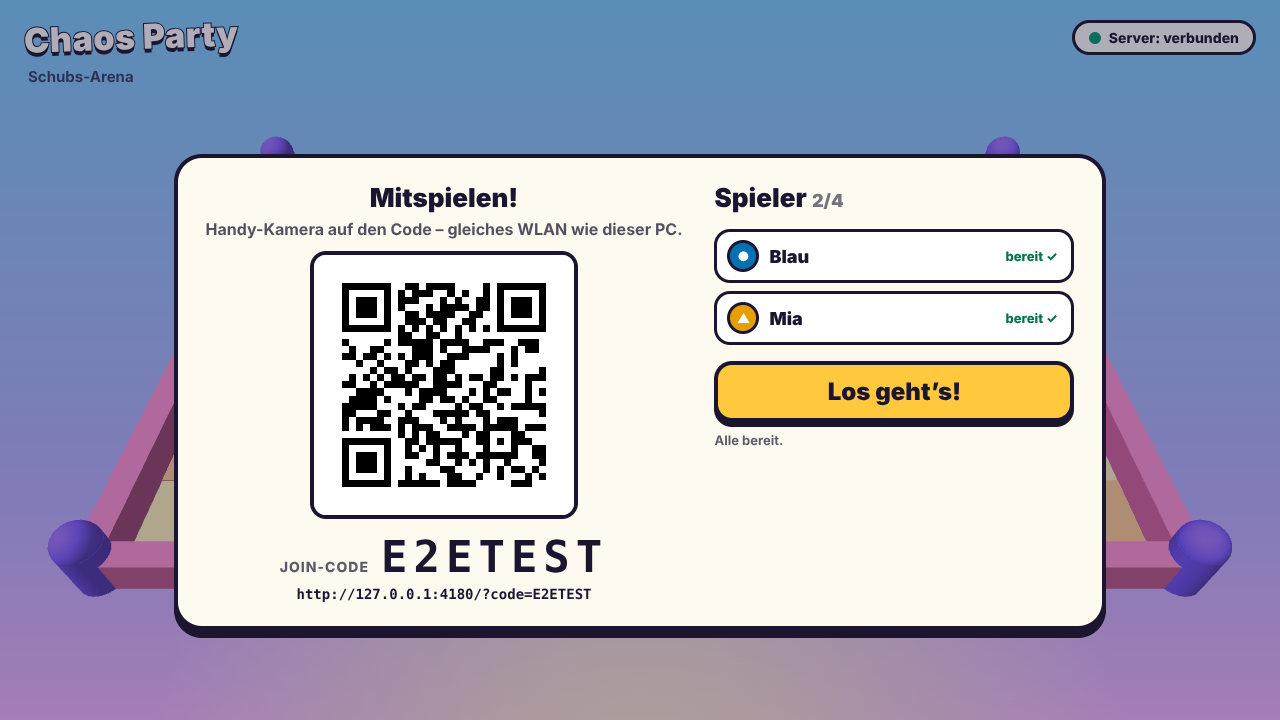
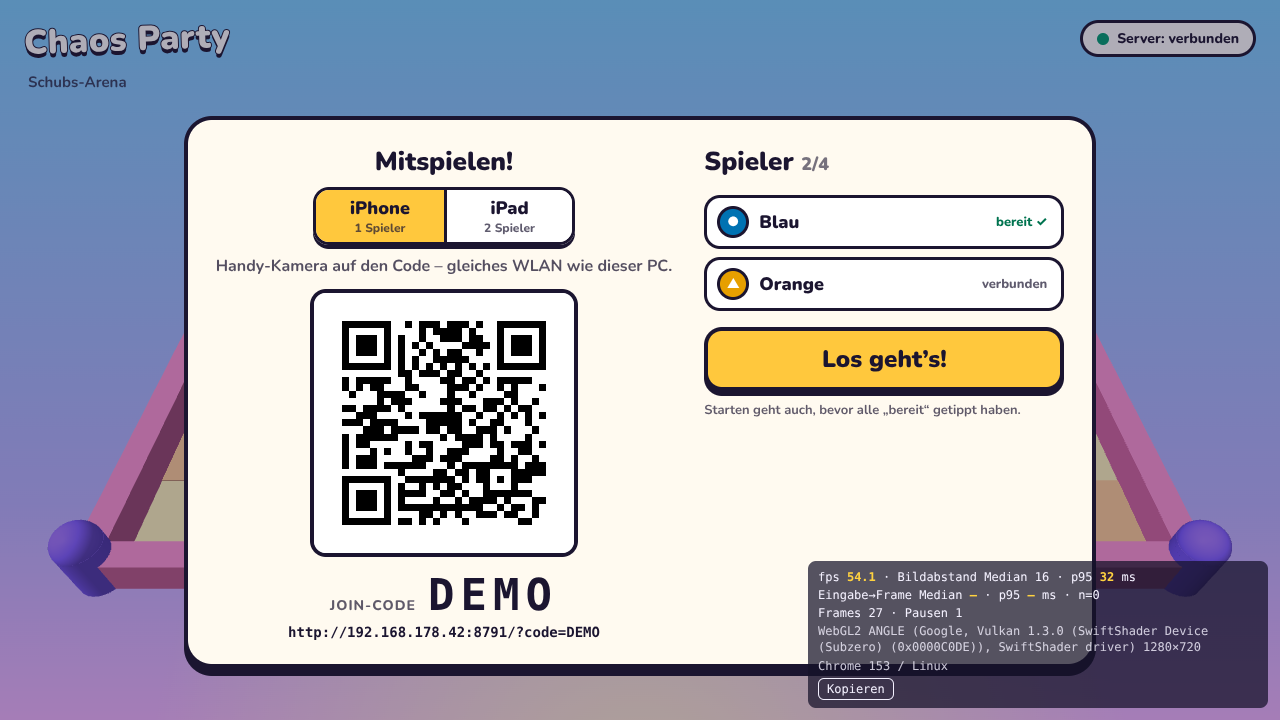
M1-Abnahmebericht, Fortschritt, Nachweise; Checkliste mit Messanzeige
- docs/acceptance/M1.md nach ROADMAP-Vorlage (Gerätechecks: nicht durchgeführt)
- docs/progress.md: Stand M1, validierte Befehle
- Gerätecheckliste P3/P9 und Demo-Anleitung mit ?debug=1
- Nachweis-Screenshots: Lobby mit iPhone/iPad-Umschalter, 4 Spieler, Messanzeige

CHAOS-15

Claude-Session: https://claude.ai/code/session_01W3mAqB3xeT3UPfR7WEi16r

Changed region(s): [[0.125, 0.1528, 1.0, 1.0], [0.0, 0.0306, 0.1875, 0.1222], [0.8125, 0.0306, 0.9688, 0.0917]]

diff --git a/docs/acceptance/M1.md b/docs/acceptance/M1.md
@@ -1,0 +1,123 @@
+# Abnahmebericht M1 – Technischer Durchstich
+
+**Stand:** 2026-11-14 · **Epic:** CHAOS-1 · **Gate:** CHAOS-16 (Entscheidung nur durch Ruben) · **PR:** [#4](https://github.com/rubenvitt/Chaos-Party/pull/4)
+
+> **Kurz:** Alle Arbeitsaufgaben von M1 sind umgesetzt, alle automatischen Gates sind lokal und in CI grün. **Kein einziger Test auf echten iPhones, einem echten iPad oder Rubens PC wurde durchgeführt.** Das ist der offene Teil der Abnahme: [Demo-Anleitung](../m1-demo.md) folgen und die [Gerätecheckliste](../device-test-checklist.md) ausfüllen.
+
+```text
+Milestone:                 M1 – Technical throughline (CHAOS-1)
+Build / commit:            Branch claude/chaos-6-qp5da3, PR #4 (Stand dieses Berichts: siehe letzter Commit im PR);
+                           Basis main f64e8d8 (CHAOS-6, PR #3)
+Automated gates (pass/fail): PASS – siehe Abschnitt „Automatische Gates“
+Real-device checks:        NOT PERFORMED – Checkliste offen (docs/device-test-checklist.md)
+What can be played now:    siehe Abschnitt „Was jetzt spielbar ist“
+Experiments and decisions: ADR-001 … ADR-010; keine Gameplay-Experimente in M1
+Known defects / limitations: siehe Abschnitt „Bekannte Fehler und Grenzen“
+Questions for product owner: siehe Abschnitt „Fragen an Ruben“
+Decision:                  (offen – Entscheidung durch Ruben: APPROVED / CHANGES REQUESTED / BLOCKED)
+```
+
+## Was jetzt spielbar ist
+
+- **PC:** `pnpm build && pnpm start`, dann `http://localhost:8787/host/`. Bunte „Schubs-Arena“ (Babylon.js + Havok-Physik) mit einer Figur pro Spieler. Die Lobby zeigt QR-Code, Join-Code, LAN-Link, einen Umschalter iPhone/iPad und die Spielerliste; „Los geht’s!“ startet.
+- **iPhone (je 1 Spieler):** QR scannen → Controller in Spielerfarbe mit Symbol → „Bereit!“ → virtueller Joystick + Knöpfe A/B. Joystick bewegt die eigene Figur, A/B schubsen. Hoch- und Querformat.
+- **Geteiltes iPad (2 Spieler, Weg zu 4):** QR im iPad-Modus oder `&seats=2` → zwei Zonen in zwei Spielerfarben, je Joystick + A/B; jede Berührung gehört der Zone, in der sie beginnt. `seats=3/4` zeigt ein 2×2-Raster.
+- **Gemischt:** iPhones und iPad gleichzeitig (bis 4 Spieler).
+- **Verbindung:** Abbruch → Controller verbindet sich automatisch neu in denselben Slot; Host zeigt getrennte Spieler deutlich (grau, „⚠ getrennt“, Figur halbtransparent mit „!“).
+- **Messwerte:** `?debug=1` (Host) bzw. `&debug=1` (Controller) zeigt fps, Frame-Zeit, Eingabe→Frame und Rundlaufzeit Controller↔Server.
+- **Nicht in M1:** Brett, Runden, Würfel, Münzen, Trophäen, Minispiele, Spielende (M2/M3).
+
+Nachweise (Chromium-Emulation, Software-Rendering, nicht echte Geräte):
+
+| Bild | Inhalt |
+|---|---|
+| [`m1-host-lobby.png`](../screenshots/m1-host-lobby.png) | Lobby mit QR-Code, Join-Code, iPhone/iPad-Umschalter, 2 Spieler (mit Messanzeige) |
+| [`m1-host-spiel-4-spieler-debug.png`](../screenshots/m1-host-spiel-4-spieler-debug.png) | Spiel mit 4 Spielern (2 iPhones + iPad mit 2 Zonen) gegen den echten Server, Messanzeige |
+| [`m1-host-szene.png`](../screenshots/m1-host-szene.png) | Startszene der Arena |
+| [`m1-controller-lobby.png`](../screenshots/m1-controller-lobby.png), [`m1-controller-play-landscape.png`](../screenshots/m1-controller-play-landscape.png), [`m1-controller-debug.png`](../screenshots/m1-controller-debug.png) | iPhone-Controller: Lobby, Spiel quer, Messanzeige |
+| [`m1-ipad-2-zonen.png`](../screenshots/m1-ipad-2-zonen.png), [`m1-ipad-2-zonen-hoch.png`](../screenshots/m1-ipad-2-zonen-hoch.png), [`m1-ipad-4-zonen.png`](../screenshots/m1-ipad-4-zonen.png) | iPad-Zonen quer, hoch, vier Zonen |
+
+Reproduzierbarkeit: Szene mit `?seed=` (Standard 2026) und `?test=1` (feste Zeitschritte); E2E-Server mit festem Join-Code `E2ETEST`.
+
+## Lieferumfang laut ROADMAP
+
+| Lieferumfang M1 | Umgesetzt in | Automatisch belegt | Offen am Gerät |
+|---|---|---|---|
+| Minimaler pnpm-TypeScript-Workspace (Host, Controller, Server, Protokoll) | CHAOS-6, CHAOS-7 | `pnpm check` lokal + CI | – |
+| Babylon.js-Szene mit steuerbarem Objekt und Havok | CHAOS-8 | `host-szene.spec.ts`: WASM lädt mit `application/wasm`, Bewegung, Impuls, Screenshot | Bildrate auf Rubens PC (P9) |
+| QR-Join über LAN, Spieler-Identität/Slots | CHAOS-9, CHAOS-11 | Adresswahl-Unit-Tests, `host-lobby`, `m1-durchstich` (Link aus der Lobby → Slot/Farbe) | Kamera-Scan, WLAN, Firewall (J1–J6) |
+| Zwei iPhones gleichzeitig, getrennte Figuren | CHAOS-10 | `m1-durchstich` (gleichzeitige Joysticks auf zwei Seiten) | echte Gleichzeitigkeit, Latenz (P1–P3) |
+| Geteiltes iPad mit ≥ 2 unabhängigen Touch-Zonen, Weg zu 4 | CHAOS-13 | Zonen-Unit-Tests, `ipad-zonen`, `m1-durchstich` (zwei Finger gegen echten Server) | iPadOS-Multitouch, Systemgesten (I1–I9) |
+| Reconnect und Trennungs-Feedback; kontextabhängiges Layout | CHAOS-12, CHAOS-10 | `reconnect-slot`, `m1-durchstich` (offline → gleicher Slot), `controller-ui` | Sperrbildschirm, App-Wechsel, WLAN-Wechsel (R1–R8) |
+| Playwright-Smoke-Tests, Protokolltests, Gerätecheckliste | CHAOS-14, CHAOS-7, CHAOS-15 | 54 E2E, 505 Unit/Integration | Checkliste ausfüllen |
+| Messanzeige als M1-Baseline (ARCHITECTURE „Testing strategy“ 4) | CHAOS-45 | `debug-anzeige.spec.ts` | Werte am Gerät (P3, P9) |
+
+## Automatische Gates
+
+Geprüft am 2026-11-14 auf dem Stand von PR #4 (lokal Node 22.23 / pnpm 10.28; CI Node 24, `ubuntu-latest`).
+
+| Gate | Befehl | Ergebnis |
+|---|---|---|
+| Install | `pnpm install --frozen-lockfile` | PASS |
+| TypeScript strict | `pnpm typecheck` | PASS |
+| Lint (typbasiert, 0 Warnungen) | `pnpm lint` | PASS |
+| Format | `pnpm format:check` | PASS |
+| Unit + Integration (Vitest) | `pnpm test` | PASS – 505 Tests (Protokoll, Session-Server mit echten `ws`-Clients, Adresswahl, Zonen-Logik, Reconnect-Backoff, Joystick, Messwerte, RNG …) |
+| Production-Build | `pnpm build` | PASS |
+| Lizenzen | `pnpm check:licenses` | PASS – 10 Laufzeit-Pakete (MIT, Apache-2.0, OFL-1.1) |
+| E2E (Playwright, Chromium, `--trace off`) | `pnpm test:e2e` | PASS – 54 Tests in 7 Specs, 5 Projekte (Desktop, iPhone hoch/quer, iPad quer/hoch); Subagenten je 2–3× hintereinander stabil, Koordinator nach jeder Integration erneut |
+| CI | GitHub Actions in PR #4 | PASS (alle Läufe nach Behebung des Schrift-Problems, s. u.) |
+| Geheimnisse | GitGuardian | PASS |
+
+Was die Tests **nicht** beweisen: [`docs/testing.md`](../testing.md), Abschnitt „Was die Automatik nicht beweist“.
+
+## Echte Geräte
+
+**Nicht durchgeführt.** Claude hat keinen Zugriff auf iPhones, iPad, Rubens PC oder sein WLAN. Alle Hardware-Annahmen (A1–A7, B1, B2, B4, B6, B7, C2, E4, E5) bleiben bis zu Rubens Test offen bzw. „teilweise“ (`docs/assumptions.md`). Vorgehen: [`m1-demo.md`](../m1-demo.md) → [`device-test-checklist.md`](../device-test-checklist.md).
+
+## Entscheidungen und Experimente
+
+| ADR | Thema | Aufgabe |
+|---|---|---|
+| [ADR-001](../decisions/ADR-001-stack.md) | Stack: Babylon.js, Havok, React, WebSockets, pnpm, Vitest, Playwright | CHAOS-5 |
+| [ADR-002](../decisions/ADR-002-workspace-tooling.md) | Workspace, TypeScript 6 strict, ESLint/Prettier, Lieferketten-Schutz | CHAOS-6 |
+| [ADR-003](../decisions/ADR-003-protokoll.md) | Protokoll: zod, flacher strikter Umschlag, eine Verbindung ↔ 1–4 Slots, seq pro Verbindung | CHAOS-7 |
+| [ADR-004](../decisions/ADR-004-host-szene.md) | Host-Szene: Havok-WASM-Laden, Eingabe-Naht, Testmodus | CHAOS-8 |
+| [ADR-005](../decisions/ADR-005-session-server.md) | Session-Server: Join-Code, Tokens, Slots, Rate-Limit | CHAOS-9 |
+| [ADR-006](../decisions/ADR-006-controller-ui.md) | Controller: Client/Reducer/UI, Joystick per Pointer Events, iOS-Härtung | CHAOS-10 |
+| [ADR-007](../decisions/ADR-007-lan-join.md) | LAN-Join: Adressrangfolge, ein Prozess für Host + Controller | CHAOS-11 |
+| [ADR-008](../decisions/ADR-008-ipad-zonen.md) | iPad-Zonen: Touch Events, Besitzregeln, Layouts | CHAOS-13 |
+| [ADR-009](../decisions/ADR-009-reconnect.md) | Reconnect: Timeouts, Token/Slot-Regeln, Backoff | CHAOS-12 |
+| [ADR-010](../decisions/ADR-010-messanzeige.md) | Messanzeige für Latenz und Bildrate | CHAOS-45 |
+
+Weitere Entscheidung bei der Integration (Koordinator): Schrift **Nunito** (OFL-1.1) wird mit Host und Controller ausgeliefert. Grund: Der Lobby-Screenshot schlug in CI fehl, weil Linux-Rechner unterschiedliche Systemschriften einsetzten; zugleich sieht das Spiel damit auf jedem PC gleich aus. Das berührt die Optik – siehe Frage 4.
+
+**Gameplay-Experimente:** keine in M1 (technischer Durchstich); `docs/experiments.md` ist unverändert.
+
+## Bekannte Fehler und Grenzen
+
+Keine kritischen Fehler bekannt. Grenzen und kleinere Mängel:
+
+1. **Automatik ≠ Gerät:** Alle Browser-Tests laufen in Chromium mit iPhone-/iPad-Emulation und synthetischem Multitouch (CDP), nicht in WebKit/iOS-Safari.
+2. **Spielphase:** Wer sich während des Spiels trennt, behält seinen Platz bis zum Server-Neustart; kein Beitritt während des Spiels; kein Spielende (M1-Umfang).
+3. **Erkennung „getrennt“:** Ein Controller, der ohne sauberes Schließen verschwindet, gilt erst nach bis zu ~16 s als getrennt (Heartbeat-Timeout 15 s).
+4. **Knöpfe A/B** tragen nur die Beschriftung „A“/„B“ und lösen beide den Schubser aus; der Kontext sagt nicht, was ein Knopf tut.
+5. **Zurück-Wischen** in Safari ist nicht abgefangen; nach Rückkehr verbindet sich der Controller wieder in denselben Slot.
+6. **iPad-Modus** reagiert nicht auf Maus (nur Touch); Querformat-Layout ist bewusst nicht gespiegelt (nach Gerätetest bewerten).
+7. **Adresswahl:** Ein VPN-Adapter mit neutralem Namen (z. B. „Ethernet 3“) wird nicht erkannt → Lobby-Auswahl „Andere Adresse“ oder `PUBLIC_HOST`.
+8. **Host-Tab im Hintergrund:** Starke Timer-Drosselung kann den Host vom Server trennen; er verbindet sich neu, sobald er sichtbar wird.
+9. **Messanzeige** (`?debug=1`) überdeckt bei 4 Spielern den vierten Spielerchip im Host-HUD; Eingabe→Frame misst nur bis zum Ende des JS-Renderings (ohne GPU/Monitor).
+10. **Bundle-Größen:** Host ~1,3 MB (330 kB gzip, Babylon), Controller ~330 kB (100 kB gzip, überwiegend zod) – im LAN unkritisch.
+11. **Doku-Kleinigkeit:** ADR-007 beschreibt im Abschnitt „Tests“ noch den alten gemeinsamen E2E-Server auf Port 4180; seit CHAOS-14 startet jeder Test einen eigenen Server (`docs/testing.md` ist aktuell).
+
+## Fragen an Ruben
+
+1. **Testumgebung:** Welche Geräte (iPhone-Modelle, iPad-Modell, iOS-Versionen), welcher PC (Betriebssystem, GPU, Browser) und welches Netz (Heim-WLAN, Mesh, PC per Kabel)? Bitte in Abschnitt 1 der Checkliste eintragen.
+2. **iPad-Aufteilung:** Passt „quer = links/rechts, hoch = oben gedreht/unten“ für eure Sitzposition, oder sollen die Zonen im Querformat gespiegelt sein?
+3. **Knöpfe:** Reicht „A = Schubser“ für M1, oder sollen A/B schon jetzt beschriftete Aktionen zeigen (würde in M2 ohnehin kommen)?
+4. **Schrift:** Ist Nunito (rund, freundlich) für die Art Direction in Ordnung, oder lieber die Systemschrift des Geräts (auf Apple-Geräten SF Pro Rounded)?
+5. **Reaktionszeit:** Fühlt sich die Steuerung tolerierbar an (Checkliste P3)? Die gemessenen Werte werden die Baseline für M2.
+
+## Entscheidung
+
+**Offen.** Ruben entscheidet nach dem Gerätetest: **APPROVED / CHANGES REQUESTED / BLOCKED** – im Chat oder als Kommentar an CHAOS-16. M2 (CHAOS-2) startet erst nach APPROVED.

diff --git a/docs/assumptions.md b/docs/assumptions.md
@@ -37,7 +37,7 @@ Diese Liste sammelt alles, was die Projektdokumente voraussetzen, aber noch nich
 | B3 | Der Server kann bei mehreren Netzwerkschnittstellen (WLAN, Ethernet, VPN, Docker/WSL, virtuelle Adapter) die richtige LAN-Adresse wählen; sonst manuelle Auswahl. | mittel | Auto: Unit-Test der Adresswahl (Filter für Loopback, Link-Local, virtuelle Adapter, private Bereiche zuerst). Gerät: QR auf PC mit VPN/WSL. | CHAOS-11 | teilweise: Adressrangfolge mit synthetischen Schnittstellentabellen unit-getestet, Override `PUBLIC_HOST` + Auswahl in der Lobby (CHAOS-11, ADR-007) → Checkliste J1 |
 | B4 | Ein **QR-Code mit `http://<LAN-IP>:<Port>/...`** wird von der iOS-Kamera geöffnet und funktioniert ohne HTTPS. | mittel | Gerät: Scan mit Kamera-App iPhone + iPad. | CHAOS-11, CHAOS-15 | offen (nur Gerät): QR mit `http://<LAN-IP>:8787/?code=…` (CHAOS-11) → Checkliste J3 |
 | B5 | Für M1 sind **keine Secure-Context-Features** nötig (kein HTTPS-Zertifikat). Betroffen wären u. a. Bewegungssensoren (A8), Screen Wake Lock (B7), Service Worker/PWA-Offline. | mittel | Review: Liste der genutzten Browser-APIs pro Feature; wird ein Secure-Context-Feature nötig → Spike „lokales HTTPS“ + ADR. | CHAOS-10, CHAOS-11 | teilweise: M1 nutzt keine Secure-Context-APIs (kein Wake Lock, keine Sensoren, kein Service Worker); Reconnect fängt Sperrbildschirm ab (CHAOS-12) |
-| B6 | WebSockets über das LAN liefern eine **tolerierbare Eingabelatenz** für Brettspiel und einfache Reflex-Minispiele. Schwellenwerte werden aus M1-Messungen abgeleitet, nicht vorab erfunden. | hoch | Auto: Latenz-Instrumentierung (Sendezeit Controller → Empfang Server → Frame auf Host) mit Rundlauf-Messung. Gerät: gefühlte Latenz + gemessene Werte im Checklisten-Protokoll. | CHAOS-8, CHAOS-9, CHAOS-15 | offen: Messanzeige folgt mit CHAOS-45 → Checkliste P3 |
+| B6 | WebSockets über das LAN liefern eine **tolerierbare Eingabelatenz** für Brettspiel und einfache Reflex-Minispiele. Schwellenwerte werden aus M1-Messungen abgeleitet, nicht vorab erfunden. | hoch | Auto: Latenz-Instrumentierung (Sendezeit Controller → Empfang Server → Frame auf Host) mit Rundlauf-Messung. Gerät: gefühlte Latenz + gemessene Werte im Checklisten-Protokoll. | CHAOS-8, CHAOS-9, CHAOS-15 | offen: Messanzeige (`?debug=1`: Rundlaufzeit Controller↔Server, Eingabe→Frame am Host) vorhanden (CHAOS-45, ADR-010); Werte am Gerät → Checkliste P3 |
 | B7 | iOS sperrt den Bildschirm bzw. friert Hintergrund-Tabs ein → WebSocket bricht ab. **Reconnect** mit Session-Token stellt den Slot zuverlässig wieder her. Screen Wake Lock (braucht Secure Context) steht über HTTP voraussichtlich nicht zur Verfügung. | hoch | Auto: Integrationstests Abbruch/Rejoin/abgelaufener/fremder Token. Gerät: Bildschirm sperren, App wechseln, WLAN kurz aus, Reload. | CHAOS-12 | teilweise: Heartbeat, Timeouts, Token-Reconnect mit Backoff, Integrations- und E2E-Tests für Abbruch/Rejoin/abgelaufenen/fremden Token (CHAOS-12, ADR-009); iOS offen → Checkliste R1–R8 |
 | B8 | Client-Uhren sind nicht synchron und nicht vertrauenswürdig; veraltete Inputs werden über **Sequenznummern** und Server-Empfangszeit erkannt, nicht über Client-Zeitstempel. | mittel | Auto: Protokolltests mit vertauschten/doppelten/alten Sequenzen. | CHAOS-7 | bestätigt (automatisch): seq pro Verbindung, Protokoll- und Servertests mit vertauschten/doppelten/alten Sequenzen (CHAOS-7, CHAOS-9) |
 | B9 | Ein einziger Node-Prozess auf einem Port kann Controller-App (statisch) **und** WebSocket ausliefern; das vereinfacht QR-URL und Firewall-Freigabe. | niedrig | Spike beim Monorepo-Setup; Entscheidung im Server-Aufbau festhalten. | CHAOS-6, CHAOS-9 | bestätigt: Controller, Host und WebSocket auf einem Port, E2E gegen den echten Node-Server (CHAOS-9, CHAOS-11) |
@@ -48,7 +48,7 @@ Diese Liste sammelt alles, was die Projektdokumente voraussetzen, aber noch nich
 | ID | Annahme | Risiko | Validierungsweg | Aufgabe | Status |
 |---|---|---|---|---|---|
 | C1 | **Havok-WASM** (`@babylonjs/havok`) lädt im Dev-Server **und** im Production-Build (richtiger Pfad, MIME-Typ `application/wasm`, Bundler kopiert die Datei). | mittel | Auto: E2E prüft, dass die Physik-Engine im Production-Build initialisiert ist; Screenshot. | CHAOS-8 | teilweise: E2E prüft Production-Build (WASM 200 + `application/wasm`, `data-physics="ready"`), Dev-Server manuell geprüft (CHAOS-8, ADR-004); CI-Lauf in PR #4 |
-| C2 | Babylon.js (WebGL2, optional WebGPU) läuft in einem aktuellen Desktop-Browser auf Rubens PC mit flüssiger Bildrate für eine einfache Szene mit 4 Spielerobjekten. | mittel | Auto: FPS-Messung im Headless-Browser nur als grober Rauchtest. Gerät: echte Bildrate auf Rubens PC (Hardware im Protokoll). | CHAOS-8, CHAOS-15 | offen: Messanzeige folgt mit CHAOS-45 → Checkliste P9 |
+| C2 | Babylon.js (WebGL2, optional WebGPU) läuft in einem aktuellen Desktop-Browser auf Rubens PC mit flüssiger Bildrate für eine einfache Szene mit 4 Spielerobjekten. | mittel | Auto: FPS-Messung im Headless-Browser nur als grober Rauchtest. Gerät: echte Bildrate auf Rubens PC (Hardware im Protokoll). | CHAOS-8, CHAOS-15 | offen: Messanzeige (`?debug=1`: fps, Frame-Zeit, GPU-Info) vorhanden (CHAOS-45, ADR-010); Werte auf Rubens PC → Checkliste P9 |
 | C3 | Headless-Chromium in CI kann die Szene rendern (Software-GL), sodass **Screenshot-Tests** stabil sind – mit fester Kamera, festem Seed, festen Zeitschritten und Toleranz. | mittel | Spike: zweimal hintereinander gleiche Screenshots in CI; bei Flakiness Toleranz/Maskierung, dokumentiert. | CHAOS-8, CHAOS-14 | bestätigt: Screenshot-Vergleiche lokal 3× stabil und auf GitHub-Runnern grün (PR #4, CHAOS-8) |
 | C4 | Havok ist **nicht** bitgenau deterministisch über Plattformen hinweg; Tests prüfen Invarianten und Ergebnisse, nicht exakte Positionen. | niedrig | Design-Regel; in Tests umgesetzt (keine Positions-Snapshots von Physikobjekten). | CHAOS-8 | teilweise: Design-Regel umgesetzt – Tests prüfen Bewegung mit Toleranz, keine Positions-Snapshots (CHAOS-8) |
 | C5 | React-UI-Overlay und Babylon-Canvas lassen sich ohne Render-Konflikte kombinieren (React rendert DOM, Babylon den Canvas; Zustand fließt einseitig). | niedrig | Umsetzung + E2E. | CHAOS-8 | teilweise: React-HUD über Babylon-Canvas ohne Konflikte, E2E ohne Konsolenfehler (CHAOS-8) |
@@ -88,4 +88,5 @@ Diese Angaben machen Gerätetests und Leistungsziele konkret. Sie blockieren die
 | 2026-11-14 | Erstfassung aus den vier Projektdokumenten | CHAOS-5 |
 | 2026-11-14 | B9, D1 auf „teilweise“ (Monorepo-Gerüst) | CHAOS-6 |
 | 2026-11-14 | D1 bestätigt (CI grün in PR #3); C1, C3–C5 auf „teilweise“ (Host-Szene) | CHAOS-6, CHAOS-8 |
+| 2026-11-14 | B6, C2: Messanzeige ergänzt, Werte weiter offen (Gerät) | CHAOS-45 |
 | 2026-11-14 | Stand nach CHAOS-7 … CHAOS-13: B8, B9, B10, C3 bestätigt; A1, A2, A4–A6, A9, B3, B5, B7 teilweise; Gerätepunkte mit Verweis auf `device-test-checklist.md` | CHAOS-15 |

diff --git a/docs/progress.md b/docs/progress.md
@@ -1,6 +1,6 @@
 # Fortschritt
 
-**Stand:** 2026-11-14 (CHAOS-6) · **Aktueller Meilenstein:** M1 – Technischer Durchstich (`CHAOS-1`)
+**Stand:** 2026-11-14 (M1 abnahmebereit) · **Aktueller Meilenstein:** M1 – Technischer Durchstich (`CHAOS-1`)
 
 Aufgabenstatus im Detail führt Zunder (Projekt „Chaos Party“, `CHAOS-…`). Diese Datei ist der dauerhafte Schnappschuss im Repo: Meilensteinstand, geprüfte Befehle, nächste Schritte.
 
@@ -8,7 +8,7 @@ Aufgabenstatus im Detail führt Zunder (Projekt „Chaos Party“, `CHAOS-…`).
 
 | Meilenstein | Epic | Gate | Status |
 |---|---|---|---|
-| M1 – Technischer Durchstich | CHAOS-1 | CHAOS-16 | in Arbeit |
+| M1 – Technischer Durchstich | CHAOS-1 | CHAOS-16 | umgesetzt, wartet auf Abnahme |
 | M2 – Spielbares Brett | CHAOS-2 | CHAOS-25 | gesperrt bis M1-Freigabe |
 | M3 – Party-Identität und Minispiele | CHAOS-3 | CHAOS-35 | gesperrt bis M2-Freigabe |
 | M4 – Vollständiger Vertical Slice | CHAOS-4 | CHAOS-43 | gesperrt bis M3-Freigabe |
@@ -17,52 +17,55 @@ Aufgabenstatus im Detail führt Zunder (Projekt „Chaos Party“, `CHAOS-…`).
 
 | Aufgabe | Inhalt | Stand |
 |---|---|---|
-| CHAOS-5 | Annahmenliste + Arbeitsartefakte | erledigt |
-| CHAOS-6 | pnpm-Monorepo + Pipelines | Review (PR offen) |
-| CHAOS-7 | Typisiertes WebSocket-Protokoll | blockiert durch CHAOS-6 |
-| CHAOS-8 | Babylon.js-Szene + Havok | blockiert durch CHAOS-6 |
-| CHAOS-9 | Session-Server | blockiert durch CHAOS-7 |
-| CHAOS-10 | iPhone-Controller-UI | blockiert durch CHAOS-7 |
-| CHAOS-11 | QR-Join über LAN | blockiert durch CHAOS-9 |
-| CHAOS-12 | Reconnect/Disconnect | blockiert durch CHAOS-9, CHAOS-10 |
-| CHAOS-13 | Shared-iPad-Zonen | blockiert durch CHAOS-10 |
-| CHAOS-14 | Playwright + Integrationstests | blockiert durch CHAOS-8, 11, 12, 13 |
-| CHAOS-15 | Gerätecheckliste, Demo-Anleitung, Abnahmebericht | blockiert durch CHAOS-14 |
-| CHAOS-16 | **M1-Abnahme (Ruben)** | blockiert durch CHAOS-15 |
+| CHAOS-5 | Annahmenliste + Arbeitsartefakte | erledigt (PR #2) |
+| CHAOS-6 | pnpm-Monorepo + Pipelines | erledigt (PR #3) |
+| CHAOS-7 | Typisiertes WebSocket-Protokoll (ADR-003) | Review (PR #4) |
+| CHAOS-8 | Babylon.js-Szene + Havok (ADR-004) | Review (PR #4) |
+| CHAOS-9 | Session-Server (ADR-005) | Review (PR #4) |
+| CHAOS-10 | iPhone-Controller-UI (ADR-006) | Review (PR #4) |
+| CHAOS-11 | QR-Join über LAN (ADR-007) | Review (PR #4) |
+| CHAOS-12 | Reconnect/Disconnect (ADR-009) | Review (PR #4) |
+| CHAOS-13 | Shared-iPad-Zonen (ADR-008) | Review (PR #4) |
+| CHAOS-14 | Playwright + Integrationstests (`testing.md`) | Review (PR #4) |
+| CHAOS-45 | Messanzeige Latenz/Bildrate (ADR-010) | Review (PR #4) |
+| CHAOS-15 | Gerätecheckliste, Demo-Anleitung, Abnahmebericht | Review (PR #4) |
+| CHAOS-16 | **M1-Abnahme (Ruben)** | wartet auf Gerätetest und Entscheidung |
 
 ## Validierte Befehle
 
-Stand CHAOS-6 (2026-11-14), lokal geprüft mit Node 22.23 / pnpm 10.28; CI läuft mit Node 24 (`.nvmrc`).
+Stand 2026-11-14 (PR #4), lokal Node 22.23 / pnpm 10.28; CI Node 24 (`.nvmrc`), `ubuntu-latest`.
 
 | Befehl | Ergebnis |
 |---|---|
 | `pnpm install --frozen-lockfile` | ok |
-| `pnpm typecheck` | ok (Root + 5 Pakete) |
-| `pnpm lint` | ok, 0 Warnungen |
-| `pnpm format:check` | ok |
-| `pnpm test` | ok, 3 Testdateien / 22 Tests (protocol, game-core RNG, Server-Auslieferung) |
-| `pnpm build` | ok (Host, Controller, Server) |
-| `pnpm check:licenses` | ok (react, react-dom, scheduler: MIT) |
-| `pnpm dev` | Host :5173, Controller :5174, Server :8787 starten; Host und Controller rendern ohne Konsolenfehler (Playwright-Rauchtest, nicht im Repo) |
-| `pnpm build && pnpm start` | Server liefert Controller-Build und `/health` auf einem Port |
+| `pnpm check` (typecheck, lint, format, test, build, Lizenzen) | ok – 505 Unit-/Integrationstests, 10 Laufzeit-Pakete auf der Positivliste |
+| `pnpm test:e2e` | ok – 54 Tests in 7 Specs (Desktop, iPhone hoch/quer, iPad quer/hoch), ~1,4 min |
+| `pnpm build && pnpm start` | Host `http://localhost:8787/host/`, Controller `/`, WebSocket `/ws`; Terminal zeigt LAN-Link, Join-Code, QR |
+| `pnpm dev` | Host :5173/host/, Controller :5174 (beide leiten `/ws` an :8787 weiter), Server :8787 |
+| Manueller Durchstich (Koordinator, Chromium-Emulation) | Host + 2 iPhone-Seiten + iPad (2 Zonen) gegen echten Server: Join, Bereit, Start, Joysticks bewegen je die eigene Figur, keine Seitenfehler |
 
-Details zu Werkzeugen und Paketschnitt: [ADR-002](decisions/ADR-002-workspace-tooling.md).
+Details: [`testing.md`](testing.md).
 
 ## Arbeitsartefakte
 
 | Datei | Zweck |
 |---|---|
-| [`assumptions.md`](assumptions.md) | Zu validierende Annahmen mit Validierungsweg und zuständiger Aufgabe |
-| [`decisions/`](decisions/README.md) | Architekturentscheidungen (ADR-001: Stack, ADR-002: Workspace/Werkzeuge) |
-| [`experiments.md`](experiments.md) | Experiment-Log mit Vorlage |
-| `device-test-checklist.md` | folgt in CHAOS-15 |
-| `acceptance/M1.md` | folgt in CHAOS-15 |
-| `blockers.md` | wird bei Bedarf angelegt (Skill `blocker-eskalieren`) |
+| [`assumptions.md`](assumptions.md) | Annahmen mit Validierungsweg und Stand |
+| [`decisions/`](decisions/README.md) | ADR-001 … ADR-010 |
+| [`experiments.md`](experiments.md) | Experiment-Log (in M1 keine Gameplay-Experimente) |
+| [`testing.md`](testing.md) | Test-Suiten, Ausführen, Baselines, Abdeckung je M1-Lieferumfang |
+| [`m1-demo.md`](m1-demo.md) | M1 auf echten Geräten ausprobieren |
+| [`device-test-checklist.md`](device-test-checklist.md) | Gerätecheckliste für die Abnahme (offen) |
+| [`network-setup.md`](network-setup.md) | Firewall, WLAN, Adresswahl |
+| [`ipad-zonen.md`](ipad-zonen.md) | Geteiltes iPad: Layouts und Grenzen |
+| [`acceptance/M1.md`](acceptance/M1.md) | Abnahmebericht M1 |
+| `blockers.md` | nicht nötig (keine Blocker) |
 
 ## Nächste Schritte
 
-1. CHAOS-6 abschließen: PR-Review und Merge (CI-Lauf auf GitHub belegt D1).
-2. Danach parallel möglich: CHAOS-7 (Protokoll, Schema-Bibliothek wählen) und CHAOS-8 (Babylon/Havok, Annahmen C1–C5).
+1. **Ruben:** M1 nach [`m1-demo.md`](m1-demo.md) auf echten Geräten testen, [`device-test-checklist.md`](device-test-checklist.md) ausfüllen, Fragen aus [`acceptance/M1.md`](acceptance/M1.md) beantworten, Entscheidung an CHAOS-16.
+2. Danach PR #4 mergen und Gerätewerte in `assumptions.md` nachtragen.
+3. M2 (CHAOS-2) erst nach APPROVED.
 
 ## Offene Risiken (Kurzfassung)
 

diff --git a/docs/device-test-checklist.md b/docs/device-test-checklist.md
@@ -10,6 +10,7 @@ Diese Liste prüft, was Browser-Automatisierung **nicht** beweisen kann: echtes 
 - Nachweis: Foto, Bildschirmaufnahme, kurze Notiz oder Terminal-Ausgabe. Dateien gern nach `docs/acceptance/m1-nachweise/` legen oder in Zunder an CHAOS-16 hängen.
 - Spalte „Annahme“ verweist auf [`assumptions.md`](assumptions.md). Ergebnisse dort mit Datum nachtragen.
 - Ablauf zum Starten: [M1-Demo-Anleitung](m1-demo.md). Netzwerkprobleme: [network-setup.md](network-setup.md).
+- Messwerte: `?debug=1` (Host) bzw. `&debug=1` (Controller) blendet eine Messanzeige mit „Kopieren“ ein ([ADR-010](decisions/ADR-010-messanzeige.md)). Es gibt bewusst keine Grenzwerte; die Werte dieser Liste sind die M1-Baseline.
 
 ## 1. Testumgebung
 
@@ -49,13 +50,13 @@ Diese Liste prüft, was Browser-Automatisierung **nicht** beweisen kann: echtes 
 |---|---|---|---|---|---|
 | P1 | – | Beide Personen bewegen gleichzeitig ihren Joystick in verschiedene Richtungen | jede Figur folgt **nur** ihrem iPhone; Richtung stimmt (Joystick hoch = Figur vom Betrachter weg) | | |
 | P2 | – | Taste A (Schubser) auf beiden, auch gleichzeitig, Figuren gegeneinander | Figuren stoßen sich sichtbar, Physik wirkt plausibel | | |
-| P3 | B6 | Gefühlte Latenz: schnelle Richtungswechsel, Antippen | Bewertung 1 (unspielbar) – 5 (wie Konsole): ___ ; optional Zeitlupenvideo (240 fps): Bilder zwischen Fingerbewegung und Figurbewegung zählen → ___ ms | | |
+| P3 | B6 | Gefühlte Latenz: schnelle Richtungswechsel, Antippen. Dazu Controller mit `&debug=1` öffnen (Link um `&debug=1` ergänzen) und nach 1 min Spielen „Kopieren“ bzw. die Zeile abschreiben | Bewertung 1 (unspielbar) – 5 (wie Konsole): ___ ; Rundlaufzeit Controller↔Server Median/p95: ___ / ___ ms; optional Zeitlupenvideo (240 fps): Bilder zwischen Fingerbewegung und Figurbewegung → ___ ms | | |
 | P4 | E5 | Lesbarkeit: Wer bin ich? Was kann ich drücken? | Spielerfarbe/-symbol und Knöpfe ohne Erklärung verständlich; Knöpfe groß genug | | |
 | P5 | A4 | Hämmern auf A/B, Doppeltipp, Zwei-Finger-Zoom, langes Halten, über den Rand ziehen | kein Zoom, kein Scrollen, keine Textauswahl, keine Lupe, kein Kontextmenü | | |
 | P6 | A5 | Vom linken Rand nach rechts wischen; oben nach unten ziehen | keine Zurück-Navigation, kein Neuladen – oder: Seite kommt nach Reload sofort wieder in denselben Slot (R3) | | |
 | P7 | A6 | iPhone mitten im Spiel zwischen Hoch- und Querformat drehen, auch während der Joystick gehalten wird | Layout passt sich an, nichts „klemmt“ (Figur läuft nicht weiter, wenn losgelassen) | | |
 | P8 | A7 | Ältestes verfügbares iPhone mitspielen lassen | Controller reagiert flüssig | | |
-| P9 | C2 | Host-Bildrate am PC (subjektiv; optional Chrome-DevTools → Rendering → FPS-Anzeige) | flüssig mit 2 (und testweise 4) Figuren: ___ fps | | |
+| P9 | C2 | Host-Bildrate am PC: Host mit `http://localhost:8787/host/?debug=1` öffnen, 1 min mit 2 (testweise 4) Figuren spielen, Messzeile kopieren | fps: ___ ; Frame-Zeit Median/p95: ___ / ___ ms; Eingabe→Frame Median/p95: ___ / ___ ms; GPU/WebGL laut Anzeige: ___ | | |
 
 ## 4. Geteiltes iPad (2 Zonen)
 
